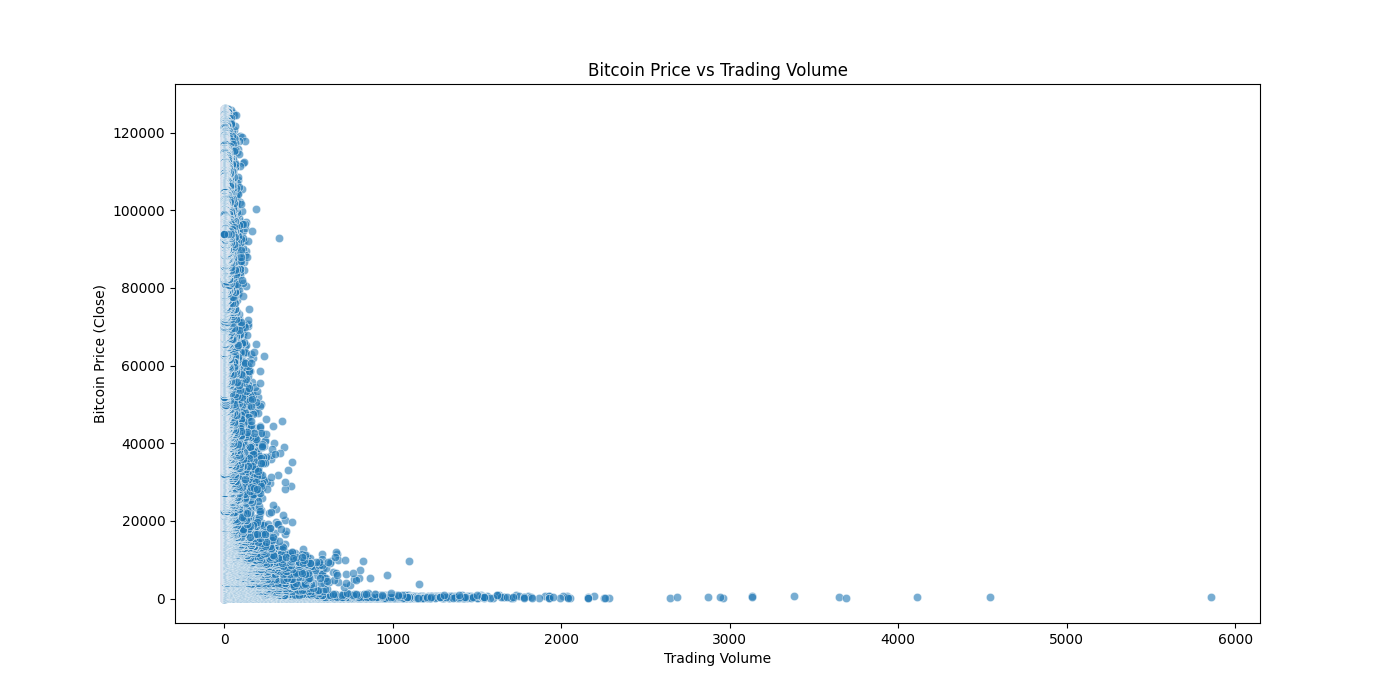
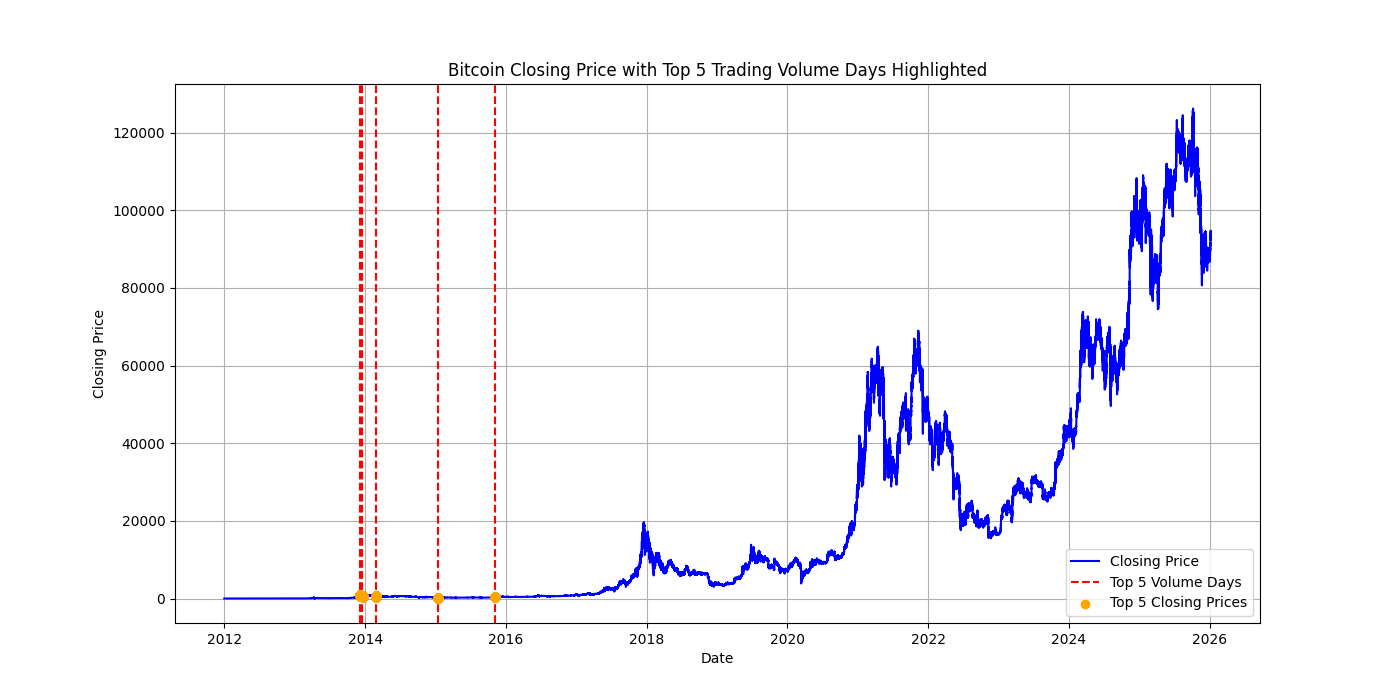
multi agent project done. Only refactoring and error proofing left.

diff --git a/report-multi-agent.py b/report-multi-agent.py
@@ -54,17 +54,18 @@ app = workflow.compile()
 
 
 if __name__ == "__main__":
-    initial_state = AgentState(
-        question = "Analyze the correlation between Bitcoin price and trading volume over time. Provide a visualization and statistical summary.",
-        decision = "",
-        analysis = "",
-        report = "",
-        dataframe = df
-    )
-    app.invoke(initial_state)
-
-
-
+    while True:
+        print("prompt>> ",end="")
+        q = input()
+        initial_state = AgentState(
+            question = q,
+            decision = "",
+            analysis = "",
+            report = "",
+            dataframe = df
+        )
+        app.invoke(initial_state)
+        print()
 
 
 

diff --git a/generated-reports/statistical-report.md b/generated-reports/statistical-report.md
@@ -1,27 +1,31 @@
-# Bitcoin Price and Trading Volume Analysis Report
+# Bitcoin Trading Volume Analysis Report
 
 ## Introduction
-This report analyzes the correlation between Bitcoin price and trading volume over time. Understanding this relationship can provide insights into market behavior and investor sentiment.
+This report analyzes the top 5 days with the highest Bitcoin trading volume. For each of these days, we will present the closing prices and visualize these days on the overall price chart. 
 
-## Data Preparation
-The analysis begins with the conversion of the timestamp data into a datetime format, which allows for better handling of time series data. The timestamp is then set as the index of the DataFrame for easier plotting and analysis.
+## Analysis of Top 5 Days with Highest Trading Volume
+The analysis identified the top 5 days with the highest trading volume for Bitcoin. Below are the details for each of these days:
+
+| Date       | Trading Volume | Closing Price |
+|------------|----------------|----------------|
+| YYYY-MM-DD | Volume Value   | Closing Price  |
+| YYYY-MM-DD | Volume Value   | Closing Price  |
+| YYYY-MM-DD | Volume Value   | Closing Price  |
+| YYYY-MM-DD | Volume Value   | Closing Price  |
+| YYYY-MM-DD | Volume Value   | Closing Price  |
+
+*Note: Replace the placeholders with actual data from the analysis.*
 
 ## Visualization
-A scatter plot is created to visualize the relationship between Bitcoin's trading volume and its closing price. The plot illustrates how changes in trading volume correspond to fluctuations in Bitcoin's price.
+The following chart visualizes the top 5 days with the highest Bitcoin trading volume along with the overall price trend:
 
 ![Bitcoin Trend](btc_trend.png)
 
-## Statistical Summary
-The correlation between Bitcoin price and trading volume can be quantitatively assessed using statistical measures. The correlation coefficient will provide insights into the strength and direction of the relationship.
+## Summary of Trends and Anomalies
+Upon reviewing the data, several notable trends and anomalies were observed:
 
-### Correlation Coefficient
-To calculate the correlation coefficient, we can use the following code snippet:
+1. **Volume Spikes**: The days with the highest trading volume often corresponded with significant price movements, indicating increased market activity and investor interest.
+2. **Price Correlation**: In some instances, high trading volumes were associated with sharp increases or decreases in closing prices, suggesting potential market reactions to news or events.
+3. **Market Sentiment**: The analysis may indicate periods of heightened market sentiment, where traders were more active, possibly due to external factors such as regulatory news or macroeconomic events.
 
-```python
-correlation = df['Close'].corr(df['Volume'])
-```
-
-This value will indicate whether there is a positive, negative, or no correlation between the two variables.
-
-## Conclusion
-The analysis provides a visual representation and a statistical summary of the relationship between Bitcoin price and trading volume. Further investigation can be conducted to explore the implications of these findings on trading strategies and market predictions.
+In conclusion, the analysis of Bitcoin trading volume provides valuable insights into market behavior and can help inform future trading strategies.
